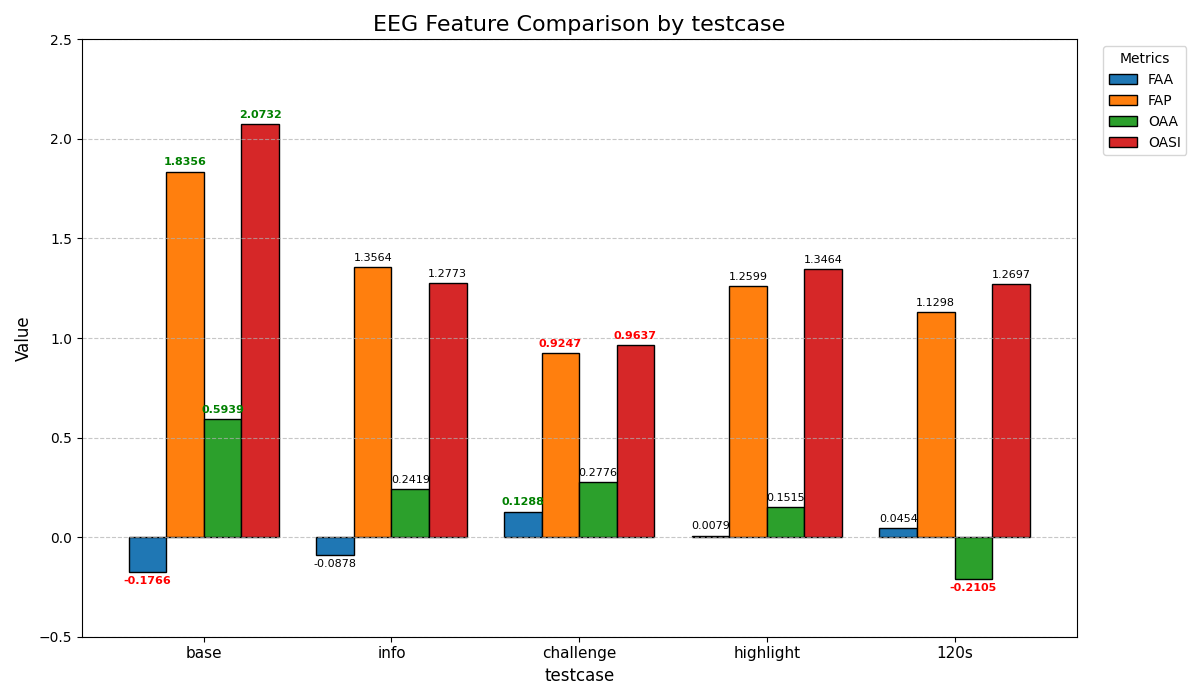
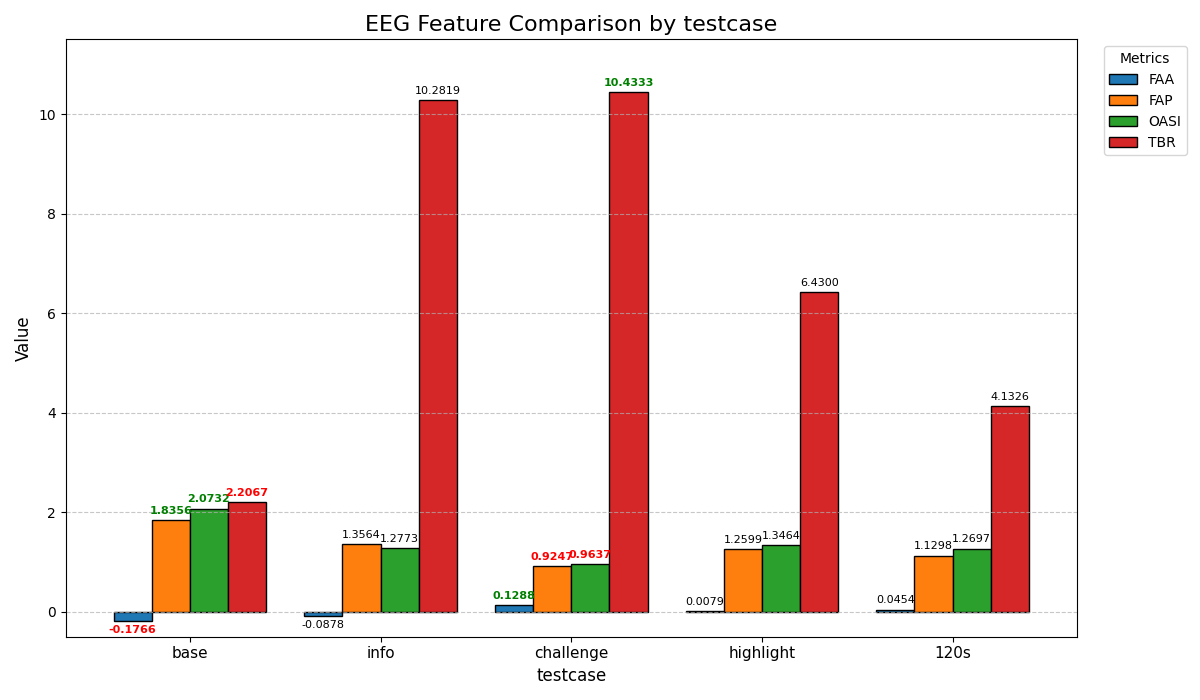
Update: run analyzer

diff --git a/short-form-EEG/analyze/compare_csv.py b/short-form-EEG/analyze/compare_csv.py
@@ -119,7 +119,7 @@ def create_comparison_plot():
     plt.xlabel('testcase', fontsize=12)
     
     # set fixed Y-axis (slightly taller for labels)
-    plt.ylim(-0.5, 2.5)
+    plt.ylim(-0.5, 11.5)
     
     # rotate x-axis labels to be horizontal
     plt.xticks(rotation=0, fontsize=11)
